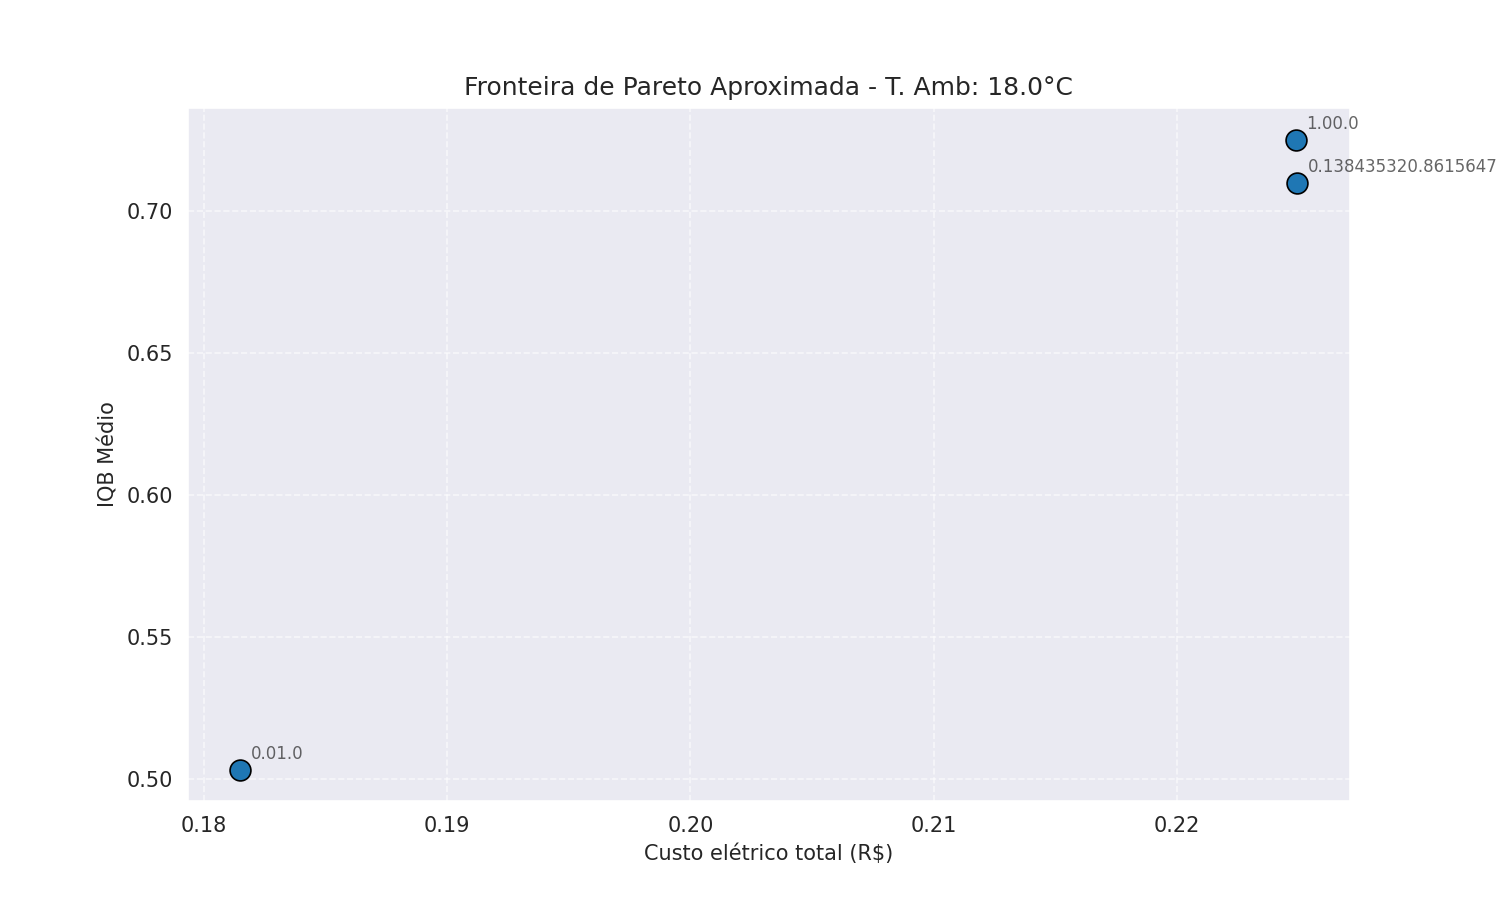
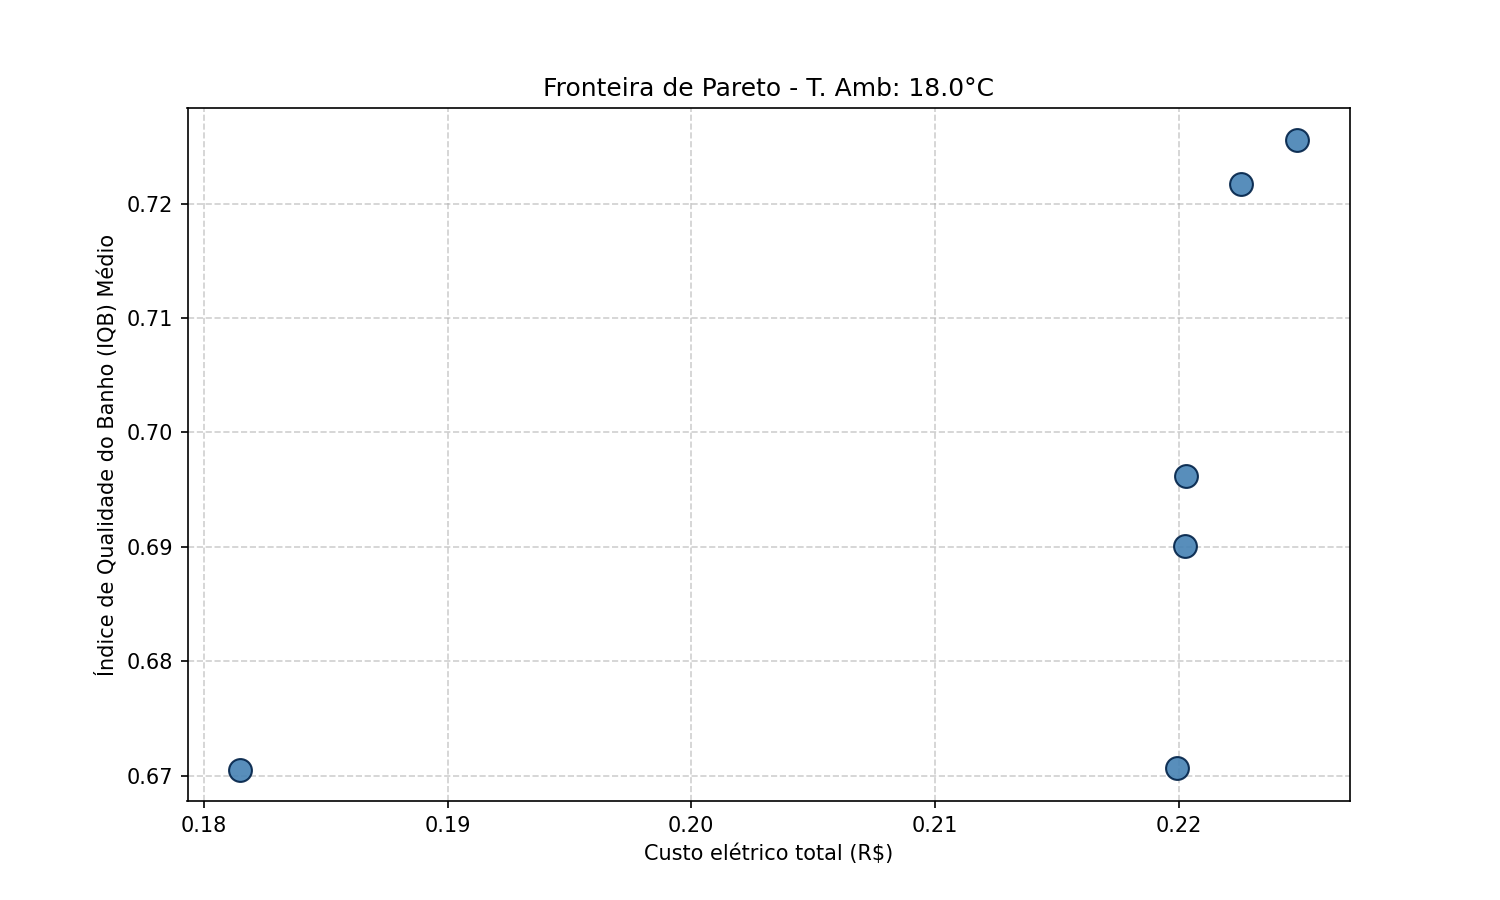
pareto multiple temperature plots added and iqb evolution plots changed

diff --git a/treina_agente_v3.py b/treina_agente_v3.py
@@ -42,7 +42,9 @@ random.seed(seed)
 np.random.seed(seed)
 
 # Label para o nome de arquivo de imagens e models  
-label_imagens_models = "_4rewards_512perc_10kl_260k"
+
+label_imagens_models = "_teste_260ksteps_10kLS_3layers_512neurons_Alef_gpils"
+# label_imagens_models = "_teste_260ksteps_10kLS_3layers_512neurons_Alef_gpils"
 
 minutos_banho = 14
 if minutos_banho % 2 != 0:
@@ -881,21 +883,64 @@ def plot_fronteira_pareto(df_resultados, folder_path):
 
         plt.figure(figsize=(10, 6))
         sns.scatterplot(data=df_pareto, x="Custo elétrico total", y="IQB médio", 
-                        s=100, color="tab:blue", edgecolor="black", zorder=3)
+                        s=120, color="steelblue", edgecolor="#002147", linewidth=1.0, alpha=0.9, zorder=3)
 
-        # Anota apenas os pesos dos pontos ótimos
-        for _, row in df_pareto.iterrows():
-            plt.annotate(row["Pesos"], (row["Custo elétrico total"], row["IQB médio"]),
-                         xytext=(5, 5), textcoords='offset points', fontsize=8)
+        # # Anota apenas os pesos dos pontos ótimos
+        # for _, row in df_pareto.iterrows():
+        #     plt.annotate(row["Pesos"], (row["Custo elétrico total"], row["IQB médio"]),
+        #                  xytext=(5, 5), textcoords='offset points', fontsize=8)
 
-        plt.title(f"Fronteira de Pareto (Pontos Eficientes) - T. Amb: {temp}°C")
-        plt.xlabel("Custo elétrico total (R$)")
-        plt.ylabel("IQB Médio")
+        plt.title(f"Pareto Frontier - Ambient Temp: {temp}°C")
+        plt.xlabel("Total Electricity Cost (R$)")
+        plt.ylabel("Average Bathing Quality Index (IQB)")
         plt.grid(True, linestyle='--', alpha=0.6)
+
+        plt.gca().invert_xaxis()
         
         temp_str = str(temp).replace(".", "-")
         plt.savefig(os.path.join(path_pareto, f"pareto_T{temp_str}.png"), dpi=150)
         plt.close()
+
+def plot_pareto_multiplas_temperaturas(df_resultados, folder_path, temps_escolhidas):
+    path_pareto = os.path.join(folder_path, "pareto_plots")
+    os.makedirs(path_pareto, exist_ok=True)
+    temperaturas = df_resultados["Temperatura ambiente"].unique()
+
+    plt.figure(figsize=(10, 6))
+
+    cores = ["steelblue", "darkorange", "crimson"]  
+
+    for i, temp in enumerate(temps_escolhidas):
+        df_temp = df_resultados[df_resultados["Temperatura ambiente"] == temp]
+        
+        df_pareto = obter_pontos_pareto(df_temp)
+
+        sns.scatterplot(
+            data=df_pareto,
+            x="Custo elétrico total",
+            y="IQB médio",
+            s=120,
+            color=cores[i],
+            label=f"{temp}°C",
+            edgecolor="#002147",
+            linewidth=1.0,
+            alpha=0.9,
+            zorder=3
+        )
+
+    plt.title("Pareto Frontiers for Selected Temperatures", fontsize=16)
+    plt.xlabel("Total Electricity Cost (R$)", fontsize=15)
+    plt.ylabel("Average Bathing Quality Index (IQB)", fontsize=15)
+    plt.grid(True, linestyle='--', alpha=0.6)
+    plt.legend(title="Ambient Temp", fontsize=12, title_fontsize=13)
+
+    ax = plt.gca()
+    ax.tick_params(axis='both', labelsize=13)
+
+    plt.gca().invert_xaxis()
+
+    plt.savefig(os.path.join(path_pareto, "pareto_multiplas_temperaturas.png"), dpi=150)
+    plt.close()
 
 def plot_comparativo_pareto_clima(df_resultados, folder_path, temp_fria, temp_amena, temp_quente):
     path_pareto = os.path.join(folder_path, "pareto_plots")
@@ -1036,19 +1081,22 @@ def plot_evolucao_iqb_global(df_resultados, folder_path, peso_referencia="0.5,0.
         x="Ação",
         y="IQB",
         hue="Temperatura ambiente",
-        palette="coolwarm",
+        palette="RdYlBu_r",
         marker="o",
         linewidth=2,
         alpha=0.8
     )
 
-    plt.title(f"Evolução do IQB por Temperatura (Peso: {peso_referencia})", fontsize=15, fontweight='bold')
-    plt.xlabel("Número da Ação (Intervalos de 2 min)", fontsize=12)
-    plt.ylabel("Índice de Qualidade do Banho (IQB)", fontsize=12)
+    plt.title(f"IQB Evolution by Temperature (Weights: {peso_referencia})", fontsize=16, fontweight='bold')
+    plt.xlabel("Action Index (2-minute intervals)", fontsize=15)
+    plt.ylabel("Bathing Quality Index (IQB)", fontsize=15)
     plt.ylim(0, 1.05) 
     plt.xticks(range(1, len(colunas_iqb) + 1))
+
+    ax = plt.gca()
+    ax.tick_params(axis='both', labelsize=13)
     
-    plt.legend(title="T. Amb (°C)", bbox_to_anchor=(1.05, 1), loc='upper left')
+    plt.legend(title="T. Amb (°C)", bbox_to_anchor=(1.05, 1), loc='upper left', fontsize=12, title_fontsize=13)
     plt.grid(True, linestyle='--', alpha=0.5)
     plt.tight_layout()
 
@@ -1209,9 +1257,22 @@ if __name__ == "__main__":
         df_resultados.to_csv(path_csv, index=False)
         print(f"Salvo com sucesso: {path_csv}")
 
+        # plt.rcParams.update({
+        #     "font.size": 12,
+        #     "axes.titlesize": 16,
+        #     "axes.labelsize": 14,
+        #     "legend.fontsize": 12,
+        #     "legend.title_fontsize": 13,
+        #     "xtick.labelsize": 11,
+        #     "ytick.labelsize": 11
+        # })
+
         print("Iniciando plotagem das Fronteiras de Pareto...")
         path_output = os.getcwd() + f"/imagens" + f"/imagens{label_imagens_models}_model3_configB/" + "pareto_plots/"
         plot_fronteira_pareto(df_resultados, path_output)
+
+        temps = [15.0, 20.0, 30.0] # Altere as temperaturas desejadas para o gráfico de múltiplas temperaturas
+        plot_pareto_multiplas_temperaturas(df_resultados, path_output, temps)
 
         print("Gerando gráfico comparativo de climas...")
         # Escolha as temperaturas desejadas aqui (devem existir em Tinf_list)
